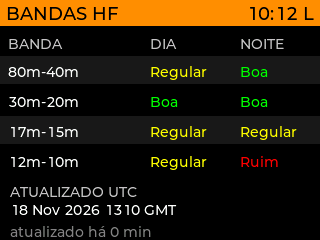
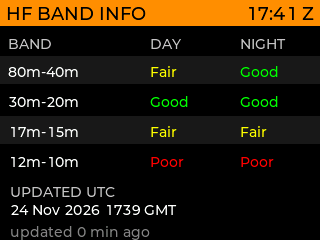
docs: refresh the README screenshots in English and document APRS messages

diff --git a/README.md b/README.md
@@ -33,11 +33,11 @@ Screens, in swipe order:
 ## Screens
 
 Screenshots of each screen, captured from a running device with its stored
-settings and live data, so the UI is in Brazilian Portuguese (the device's
-language). Screens that were still waiting for data show their waiting
-message: APRS list (no stations yet), and HamAlert (no login configured).
-The two Open-Meteo screens are off by default; they must be enabled in Settings
-to appear in the carousel, and were enabled on the device for these images. The Settings screen is opened from the gear icon on the Clock
+settings and live data. The UI is in English. Screens that were still waiting
+for data show their waiting message: APRS list (no stations yet), and HamAlert
+(no login configured). The two Open-Meteo screens are off by default; they must
+be enabled in Settings to appear in the carousel, and were enabled on the device
+for these images. The Settings screen is opened from the gear icon on the Clock
 screen.
 
 |   |   |   |
@@ -59,9 +59,27 @@ Boot log on the splash screen while the WiFi connection starts.
 
 ### Menus
 
-<img src="docs/screenshots/15-dx-menu.png" width="200"> <img src="docs/screenshots/16-aprs-menu.png" width="200"><br>
-DX Cluster menu (mode and band filters, Clear DX list) and APRS list menu
-(sort order, APRS settings, Beacon now, Clear APRS list), in Portuguese.
+<img src="docs/screenshots/15-dx-menu.png" width="200"> <img src="docs/screenshots/16-aprs-menu.png" width="200"> <img src="docs/screenshots/17-aprs-menu-scrolled.png" width="200"><br>
+DX Cluster menu (mode and band filters, Clear DX list) and APRS menu, in
+English. The APRS menu lists, from the top: Beacon now, Clear APRS list,
+Messages, then the sort order, the APRS settings checkboxes and the beacon
+interval. The whole menu scrolls; OK and CANCEL stay at the bottom. The third
+image is the APRS menu scrolled down.
+
+### APRS messages
+
+<img src="docs/screenshots/18-aprs-message-alert.png" width="200"> <img src="docs/screenshots/19-aprs-messages-list.png" width="200"><br>
+A message addressed to your callsign opens an alert over any screen, showing
+the sender's symbol, callsign, distance and text for the configured APRS alert
+time. It closes with the X button. The last 10 messages are kept in RAM (lost
+on reboot; the oldest is dropped). The Messages button in the APRS menu lists
+them; tapping one re-opens its alert, the back arrow returns to the menu and the
+X closes the menu.
+
+An ACK is sent for every received message that has a message number, including
+retransmissions. It goes over APRS-IS when logged in with a valid passcode, or
+over KISS. The APRS-IS filter also asks the server for messages addressed to
+your callsign (`g/` filter).
 
 ### Web configuration page
 
